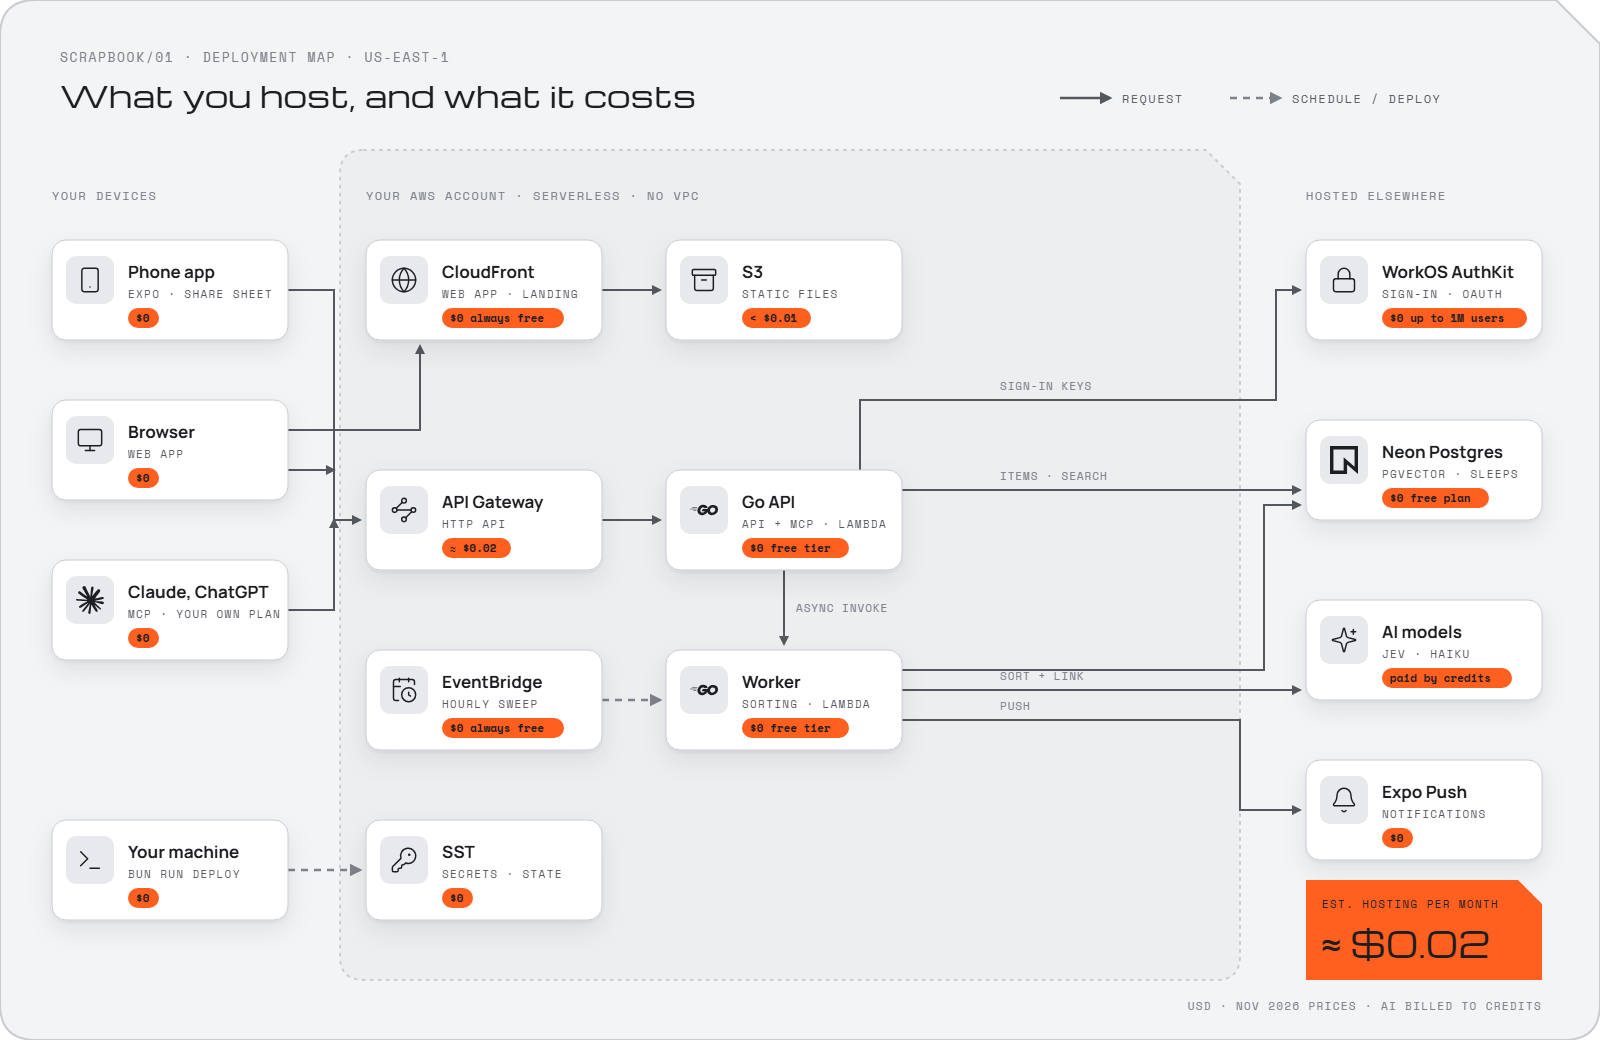
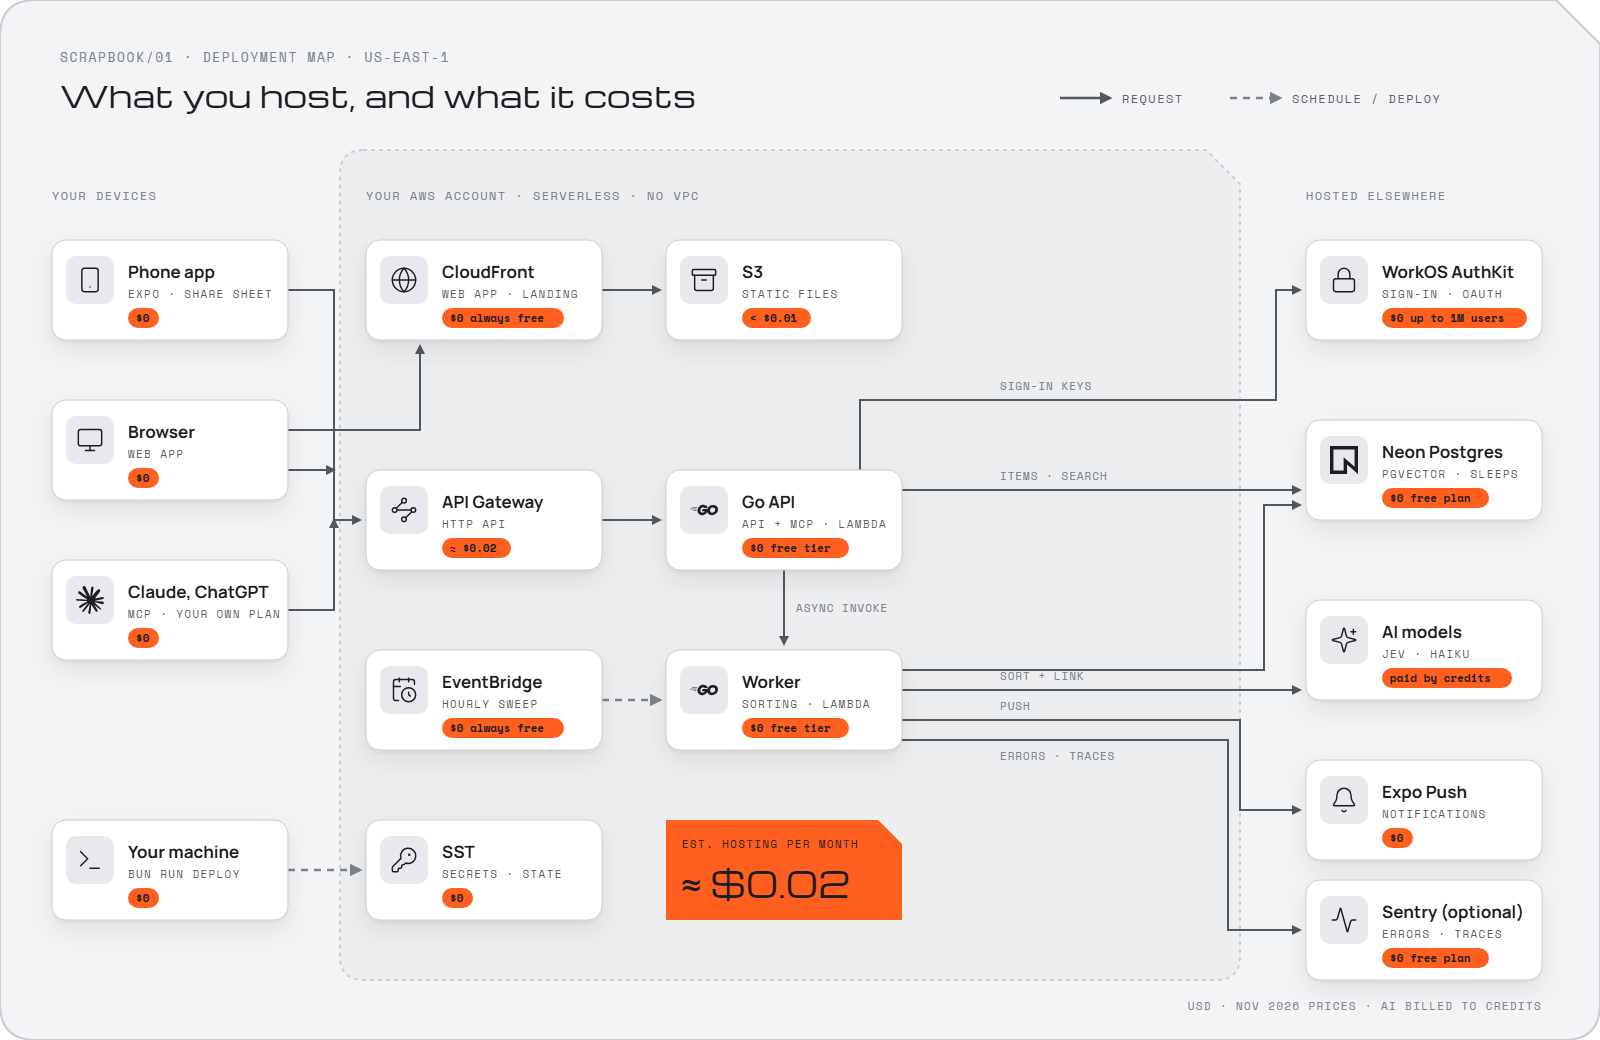
Wire Sentry secrets into the deployment and document them

Changed region(s): [[0.8125, 0.8308, 0.9688, 0.9538], [0.4062, 0.7692, 0.5625, 0.8923], [0.625, 0.7077, 0.6875, 0.7385]]

diff --git a/sst.config.ts b/sst.config.ts
@@ -31,7 +31,24 @@ export default $config({
       embeddingsApiKey: new sst.Secret("EmbeddingsApiKey", ""),
       anthropicApiKey: new sst.Secret("AnthropicApiKey", ""),
       expoAccessToken: new sst.Secret("ExpoAccessToken", ""),
+      // Optional Sentry (errors and performance), one project per surface.
+      // An empty DSN turns reporting off for that surface.
+      sentryDsnServer: new sst.Secret("SentryDsnServer", ""),
+      sentryDsnMobile: new sst.Secret("SentryDsnMobile", ""),
+      sentryDsnWebsite: new sst.Secret("SentryDsnWebsite", ""),
+      // Uploads source maps at build time; optional even with a DSN.
+      sentryAuthToken: new sst.Secret("SentryAuthToken", ""),
+      sentryOrg: new sst.Secret("SentryOrg", ""),
     };
+    // Sentry project slugs, for the source map upload (override with
+    // SENTRY_PROJECT_MOBILE / SENTRY_PROJECT_WEBSITE when deploying).
+    const sentryProject = {
+      mobile: process.env.SENTRY_PROJECT_MOBILE ?? "scrapbook01-mobile",
+      website: process.env.SENTRY_PROJECT_WEBSITE ?? "scrapbook01-website",
+    };
+    // Releases in Sentry match the repo version (package.json).
+    const { readFileSync } = await import("node:fs");
+    const version: string = JSON.parse(readFileSync(`${$cli.paths.root}/package.json`, "utf8")).version;
 
     // Settings both Lambdas read through config.Load().
     const shared = {
@@ -45,6 +62,8 @@ export default $config({
       EMBEDDINGS_API_KEY: secret.embeddingsApiKey.value,
       ANTHROPIC_API_KEY: secret.anthropicApiKey.value,
       EXPO_ACCESS_TOKEN: secret.expoAccessToken.value,
+      SENTRY_DSN: secret.sentryDsnServer.value,
+      SENTRY_ENVIRONMENT: $app.stage,
     };
     const goFunction = {
       runtime: "provided.al2023" as const,
@@ -62,7 +81,8 @@ export default $config({
     const buildGo = (name: string) => {
       execFileSync(
         "go",
-        ["build", "-tags", "lambda.norpc", "-trimpath", "-ldflags", "-s -w",
+        ["build", "-tags", "lambda.norpc", "-trimpath", "-ldflags",
+         `-s -w -X github.com/franco-roura/scrapbook-01/server/internal/telemetry.Version=${version}`,
          "-o", `../.build/${name}/bootstrap`, `./cmd/${name}`],
         {
           cwd: `${$cli.paths.root}/server`,
@@ -115,6 +135,10 @@ export default $config({
       environment: {
         EXPO_PUBLIC_API_URL: api.url,
         EXPO_PUBLIC_WORKOS_CLIENT_ID: secret.workosClientId.value,
+        EXPO_PUBLIC_SENTRY_DSN: secret.sentryDsnMobile.value,
+        SENTRY_AUTH_TOKEN: secret.sentryAuthToken.value,
+        SENTRY_ORG: secret.sentryOrg.value,
+        SENTRY_PROJECT: sentryProject.mobile,
       },
     });
 
@@ -123,7 +147,13 @@ export default $config({
     const landing = new sst.aws.StaticSite("Landing", {
       path: "apps/website",
       build: { command: "bun run build", output: "dist" },
-      environment: { VITE_API_URL: api.url },
+      environment: {
+        VITE_API_URL: api.url,
+        VITE_SENTRY_DSN: secret.sentryDsnWebsite.value,
+        SENTRY_AUTH_TOKEN: secret.sentryAuthToken.value,
+        SENTRY_ORG: secret.sentryOrg.value,
+        SENTRY_PROJECT: sentryProject.website,
+      },
     });
 
     api.route("$default", {

diff --git a/scripts/docs/icons.ts b/scripts/docs/icons.ts
@@ -14,6 +14,7 @@ export const icons: Record<string, string> = {
   database: "<g fill=\"none\" stroke=\"#1c1e21\" stroke-width=\"1.25\" stroke-linecap=\"round\" stroke-linejoin=\"round\"><ellipse cx=\"12\" cy=\"5\" rx=\"9\" ry=\"3\"/><path d=\"M3 5V19A9 3 0 0 0 21 19V5\"/><path d=\"M3 12A9 3 0 0 0 21 12\"/></g>",
   bell: "<g fill=\"none\" stroke=\"#1c1e21\" stroke-width=\"1.25\" stroke-linecap=\"round\" stroke-linejoin=\"round\"><path d=\"M10.268 21a2 2 0 0 0 3.464 0\"/><path d=\"M3.262 15.326A1 1 0 0 0 4 17h16a1 1 0 0 0 .74-1.673C19.41 13.956 18 12.499 18 8A6 6 0 0 0 6 8c0 4.499-1.411 5.956-2.738 7.326\"/></g>",
   sparkles: "<g fill=\"none\" stroke=\"#1c1e21\" stroke-width=\"1.25\" stroke-linecap=\"round\" stroke-linejoin=\"round\"><path d=\"M9.937 15.5A2 2 0 0 0 8.5 14.063l-6.135-1.582a.5.5 0 0 1 0-.962L8.5 9.936A2 2 0 0 0 9.937 8.5l1.582-6.135a.5.5 0 0 1 .963 0L14.063 8.5A2 2 0 0 0 15.5 9.937l6.135 1.581a.5.5 0 0 1 0 .964L15.5 14.063a2 2 0 0 0-1.437 1.437l-1.582 6.135a.5.5 0 0 1-.963 0z\"/><path d=\"M20 3v4\"/><path d=\"M22 5h-4\"/></g>",
+  activity: "<g fill=\"none\" stroke=\"#1c1e21\" stroke-width=\"1.25\" stroke-linecap=\"round\" stroke-linejoin=\"round\"><path d=\"M22 12h-2.48a2 2 0 0 0-1.93 1.46l-2.35 8.36a.25.25 0 0 1-.48 0L9.24 2.18a.25.25 0 0 0-.48 0l-2.35 8.36A2 2 0 0 1 4.49 12H2\"/></g>",
   lock: "<g fill=\"none\" stroke=\"#1c1e21\" stroke-width=\"1.25\" stroke-linecap=\"round\" stroke-linejoin=\"round\"><rect width=\"18\" height=\"11\" x=\"3\" y=\"11\" rx=\"2\" ry=\"2\"/><path d=\"M7 11V7a5 5 0 0 1 10 0v4\"/></g>",
   terminal: "<g fill=\"none\" stroke=\"#1c1e21\" stroke-width=\"1.25\" stroke-linecap=\"round\" stroke-linejoin=\"round\"><polyline points=\"4 17 10 11 4 5\"/><line x1=\"12\" x2=\"20\" y1=\"19\" y2=\"19\"/></g>",
 };

diff --git a/scripts/docs/architecture.ts b/scripts/docs/architecture.ts
@@ -38,6 +38,7 @@ const cards: Record<string, Card> = {
   neon: { x: 1306, y: 420, icon: 'neon', name: 'Neon Postgres', sub: 'PGVECTOR · SLEEPS', cost: '$0 free plan' },
   ai: { x: 1306, y: 600, icon: 'sparkles', name: 'AI models', sub: 'JEV · HAIKU', cost: 'paid by credits' },
   push: { x: 1306, y: 760, icon: 'bell', name: 'Expo Push', sub: 'NOTIFICATIONS', cost: '$0' },
+  sentry: { x: 1306, y: 880, icon: 'activity', name: 'Sentry (optional)', sub: 'ERRORS · TRACES', cost: '$0 free plan' },
 };
 
 // [path, dashed?, label?, labelX, labelY]
@@ -58,6 +59,7 @@ const arrows: [string, boolean, string?, number?, number?][] = [
   ['M902 670 H1264 V505 H1300', false],
   ['M902 690 H1300', false, 'SORT + LINK', 1000, 680],
   ['M902 720 H1240 V810 H1300', false, 'PUSH', 1000, 710],
+  ['M902 740 H1228 V930 H1300', false, 'ERRORS · TRACES', 1000, 760],
   // Deploys
   ['M288 870 H360', true],
 ];
@@ -126,7 +128,7 @@ const svg = `<svg xmlns="http://www.w3.org/2000/svg" viewBox="0 0 1600 1040" wid
   <text x="1306" y="200" class="hud" font-size="12" fill="#7c818a">HOSTED ELSEWHERE</text>
 ${arrows.map(arrow).join('\n')}
 ${Object.values(cards).map(card).join('\n')}
-  <g transform="translate(1306 880)">
+  <g transform="translate(666 820)">
     <path d="M0 0 H212 L236 24 V100 H0 Z" fill="#ff5f1f"/>
     <text x="16" y="28" class="hud" font-size="11" fill="#1c1e21">EST. HOSTING PER MONTH</text>
     <text x="16" y="78" class="disp" font-size="34" fill="#1c1e21">≈ $0.02</text>

diff --git a/docs/observability.md b/docs/observability.md
@@ -1,0 +1,62 @@
+[← README](../README.md) · [Features](features.md) · [Getting started](getting-started.md) · [Sorting](sorting.md) · [AI assistants](ai-assistants.md) · [Self-hosting](self-hosting.md) · [Architecture](architecture.md) · **Observability** · [Development](development.md)
+
+# Observability
+
+Scrapbook/01 can report errors and performance to [Sentry](https://sentry.io). It's **off unless you
+set a DSN**: with none, the SDKs aren't started and nothing leaves your deployment. Each surface has
+its own Sentry project and DSN, so you can turn on any of them alone:
+
+| Surface | Sentry project | Where the DSN goes |
+| --- | --- | --- |
+| API, MCP server, worker (Go) | `scrapbook01-server` | `SENTRY_DSN` (SST secret `SentryDsnServer`) |
+| Phone app, share sheet, web app | `scrapbook01-mobile` | `EXPO_PUBLIC_SENTRY_DSN` (SST secret `SentryDsnMobile`, and EAS for phone builds) |
+| Landing page | `scrapbook01-website` | `VITE_SENTRY_DSN` (SST secret `SentryDsnWebsite`) |
+
+Setup is in [Self-hosting](self-hosting.md#one-time-setup). Locally, put the same variables in
+`server/.env` or `apps/mobile/.env.local`.
+
+## What gets recorded
+
+| Question | Where to look in Sentry |
+| --- | --- |
+| How long each endpoint takes (p50, p95, throughput) | Insights → Backend. One transaction per request, named after its route, e.g. `GET /v1/items/{id}`. |
+| Which queries are slow | Insights → Queries. Every sqlc query is a `db` span named after its SQL, with the sqlc name (`GetItem`) as `db.operation.name`. |
+| How long AI calls take and what they cost | `gen_ai.*` spans with model, input and output tokens, and the metered cost in micro-dollars. |
+| How each MCP tool performs | Transactions named `MCP tools/call <tool>`. |
+| How long sorting and previews take | `worker classify`, `worker preview` and `worker sweep` transactions. A save's classification shows up in the same trace as the request that queued it. |
+| Which screens people use, and how much | Insights → Mobile → Screens: one transaction per screen visit. Release Health shows sessions, active users and crash-free rate per release. |
+| Share sheet health | Events tagged `surface:share-extension`. |
+| Landing page visits and load speed | The website project's page loads and Web Vitals. |
+| Errors and crashes | Issues, in all three projects. |
+
+## What never gets recorded
+
+- **No personal data:** the only user detail is the internal user id (a UUID). No emails, names or IP
+  addresses.
+- **No content:** no request or response bodies, so no saved links, descriptions or category names.
+- **No headers, cookies or query strings.** Request URLs aren't kept either, since some paths carry
+  push tokens: the route pattern stands in.
+- **No query arguments:** database spans carry the SQL with its `$1` placeholders, never the values.
+- **Links' own addresses:** preview fetches are named after the site's host only.
+- **No Session Replay and no profiling.**
+- Trace headers are only sent from the apps to your own API, never to third parties.
+
+## Staying on the free plan
+
+The free Developer plan has monthly quotas for errors and spans (see
+[sentry.io/pricing](https://sentry.io/pricing)). At hobby scale, tracing every request fits. If you get
+busier, lower the sample rates:
+
+- `SENTRY_TRACES_SAMPLE_RATE` (server, default `1`)
+- `EXPO_PUBLIC_SENTRY_TRACES_SAMPLE_RATE` (apps, default `1`)
+- `VITE_SENTRY_TRACES_SAMPLE_RATE` (landing page, default `1`)
+
+Errors are always sent in full. Some things are left out on purpose to save quota: CORS preflights and
+404 responses aren't traced, and neither are River's own queue queries when you run the server locally.
+
+## On AWS Lambda
+
+On Lambda the server sends each event before the invocation returns, so nothing runs after the
+response, in line with the API's Lambda-safe rule. The cost is a short call to Sentry at the end
+of each traced request, after the measured duration. Lowering `SENTRY_TRACES_SAMPLE_RATE` also
+lowers that cost.

diff --git a/docs/self-hosting.md b/docs/self-hosting.md
@@ -1,4 +1,4 @@
-[← README](../README.md) · [Features](features.md) · [Getting started](getting-started.md) · [Sorting](sorting.md) · [AI assistants](ai-assistants.md) · **Self-hosting** · [Architecture](architecture.md) · [Development](development.md)
+[← README](../README.md) · [Features](features.md) · [Getting started](getting-started.md) · [Sorting](sorting.md) · [AI assistants](ai-assistants.md) · **Self-hosting** · [Architecture](architecture.md) · [Observability](observability.md) · [Development](development.md)
 
 # Host it yourself on AWS
 
@@ -24,6 +24,8 @@ deploys to your own AWS account with one command. At personal scale it costs abo
 - Go, Bun, and this repository.
 - AI keys, all optional: [Jev](https://typesafe.ai), an OpenAI-compatible embeddings API
   ([OpenRouter](https://openrouter.ai) by default) and [Anthropic](https://console.anthropic.com).
+- Optionally, a **[Sentry](https://sentry.io)** account (the free plan is enough) for errors and
+  performance. See [Observability](observability.md).
 
 ## One-time setup
 
@@ -47,6 +49,18 @@ deploys to your own AWS account with one command. At personal scale it costs abo
    `AnthropicApiKey`, `ExpoAccessToken`, and `WorkosApiKey` (the WorkOS secret key, `sk_…`, which
    turns on the landing page's waitlist form; see [Waitlist](#waitlist)). The first `sst secret set` also creates SST's state storage
    in your account.
+4. **Sentry (optional).** Skip this step to send nothing anywhere. Otherwise create three Sentry projects
+   (Go, React Native and React), named `scrapbook01-server`, `scrapbook01-mobile` and
+   `scrapbook01-website`, and set each one's DSN:
+   ```bash
+   bun sst secret set SentryDsnServer https://…@….ingest.sentry.io/… --stage prod
+   bun sst secret set SentryDsnMobile https://…@….ingest.sentry.io/… --stage prod
+   bun sst secret set SentryDsnWebsite https://…@….ingest.sentry.io/… --stage prod
+   ```
+   Each DSN is independent: set only the ones you want. For readable stack traces in the web builds,
+   also set `SentryOrg` (your organization's slug) and `SentryAuthToken` (an organization token with
+   the default scopes). If you named your projects differently, deploy with
+   `SENTRY_PROJECT_MOBILE` and `SENTRY_PROJECT_WEBSITE` set to their slugs.
 
 ## Deploy
 
@@ -69,6 +83,8 @@ Tell WorkOS about the new addresses:
 
 For the phone builds, set `EXPO_PUBLIC_API_URL=<api>` when building, and add
 `scrapbook01://auth/callback` to the redirects.
+With Sentry, also add `EXPO_PUBLIC_SENTRY_DSN` (the mobile project's DSN) to the EAS environment, and
+`SENTRY_AUTH_TOKEN` as an EAS secret if you want readable native crash reports.
 
 ## Check it works
 

diff --git a/docs/sorting.md b/docs/sorting.md
@@ -1,4 +1,4 @@
-[← README](../README.md) · [Features](features.md) · [Getting started](getting-started.md) · **Sorting** · [AI assistants](ai-assistants.md) · [Self-hosting](self-hosting.md) · [Architecture](architecture.md) · [Development](development.md)
+[← README](../README.md) · [Features](features.md) · [Getting started](getting-started.md) · **Sorting** · [AI assistants](ai-assistants.md) · [Self-hosting](self-hosting.md) · [Architecture](architecture.md) · [Observability](observability.md) · [Development](development.md)
 
 # How saves get sorted
 

diff --git a/docs/ai-assistants.md b/docs/ai-assistants.md
@@ -1,4 +1,4 @@
-[← README](../README.md) · [Features](features.md) · [Getting started](getting-started.md) · [Sorting](sorting.md) · **AI assistants** · [Self-hosting](self-hosting.md) · [Architecture](architecture.md) · [Development](development.md)
+[← README](../README.md) · [Features](features.md) · [Getting started](getting-started.md) · [Sorting](sorting.md) · **AI assistants** · [Self-hosting](self-hosting.md) · [Architecture](architecture.md) · [Observability](observability.md) · [Development](development.md)
 
 # Ask your AI about your library
 

diff --git a/docs/architecture.md b/docs/architecture.md
@@ -1,4 +1,4 @@
-[← README](../README.md) · [Features](features.md) · [Getting started](getting-started.md) · [Sorting](sorting.md) · [AI assistants](ai-assistants.md) · [Self-hosting](self-hosting.md) · **Architecture** · [Development](development.md)
+[← README](../README.md) · [Features](features.md) · [Getting started](getting-started.md) · [Sorting](sorting.md) · [AI assistants](ai-assistants.md) · [Self-hosting](self-hosting.md) · **Architecture** · [Observability](observability.md) · [Development](development.md)
 
 # Architecture and costs
 

diff --git a/docs/features.md b/docs/features.md
@@ -1,4 +1,4 @@
-[← README](../README.md) · **Features** · [Getting started](getting-started.md) · [Sorting](sorting.md) · [AI assistants](ai-assistants.md) · [Self-hosting](self-hosting.md) · [Architecture](architecture.md) · [Development](development.md)
+[← README](../README.md) · **Features** · [Getting started](getting-started.md) · [Sorting](sorting.md) · [AI assistants](ai-assistants.md) · [Self-hosting](self-hosting.md) · [Architecture](architecture.md) · [Observability](observability.md) · [Development](development.md)
 
 # Features
 

diff --git a/docs/development.md b/docs/development.md
@@ -1,4 +1,4 @@
-[← README](../README.md) · [Features](features.md) · [Getting started](getting-started.md) · [Sorting](sorting.md) · [AI assistants](ai-assistants.md) · [Self-hosting](self-hosting.md) · [Architecture](architecture.md) · **Development**
+[← README](../README.md) · [Features](features.md) · [Getting started](getting-started.md) · [Sorting](sorting.md) · [AI assistants](ai-assistants.md) · [Self-hosting](self-hosting.md) · [Architecture](architecture.md) · [Observability](observability.md) · **Development**
 
 # Development
 

diff --git a/docs/getting-started.md b/docs/getting-started.md
@@ -1,4 +1,4 @@
-[← README](../README.md) · [Features](features.md) · **Getting started** · [Sorting](sorting.md) · [AI assistants](ai-assistants.md) · [Self-hosting](self-hosting.md) · [Architecture](architecture.md) · [Development](development.md)
+[← README](../README.md) · [Features](features.md) · **Getting started** · [Sorting](sorting.md) · [AI assistants](ai-assistants.md) · [Self-hosting](self-hosting.md) · [Architecture](architecture.md) · [Observability](observability.md) · [Development](development.md)
 
 # Getting started
 

diff --git a/.changeset/optional-sentry.md b/.changeset/optional-sentry.md
@@ -1,0 +1,5 @@
+---
+"scrapbook01": minor
+---
+
+Add optional Sentry error and performance reporting for the API, MCP server, worker, app, share sheet and landing page. It stays off until you set the new `SentryDsnServer`, `SentryDsnMobile` and `SentryDsnWebsite` secrets; see docs/observability.md.
